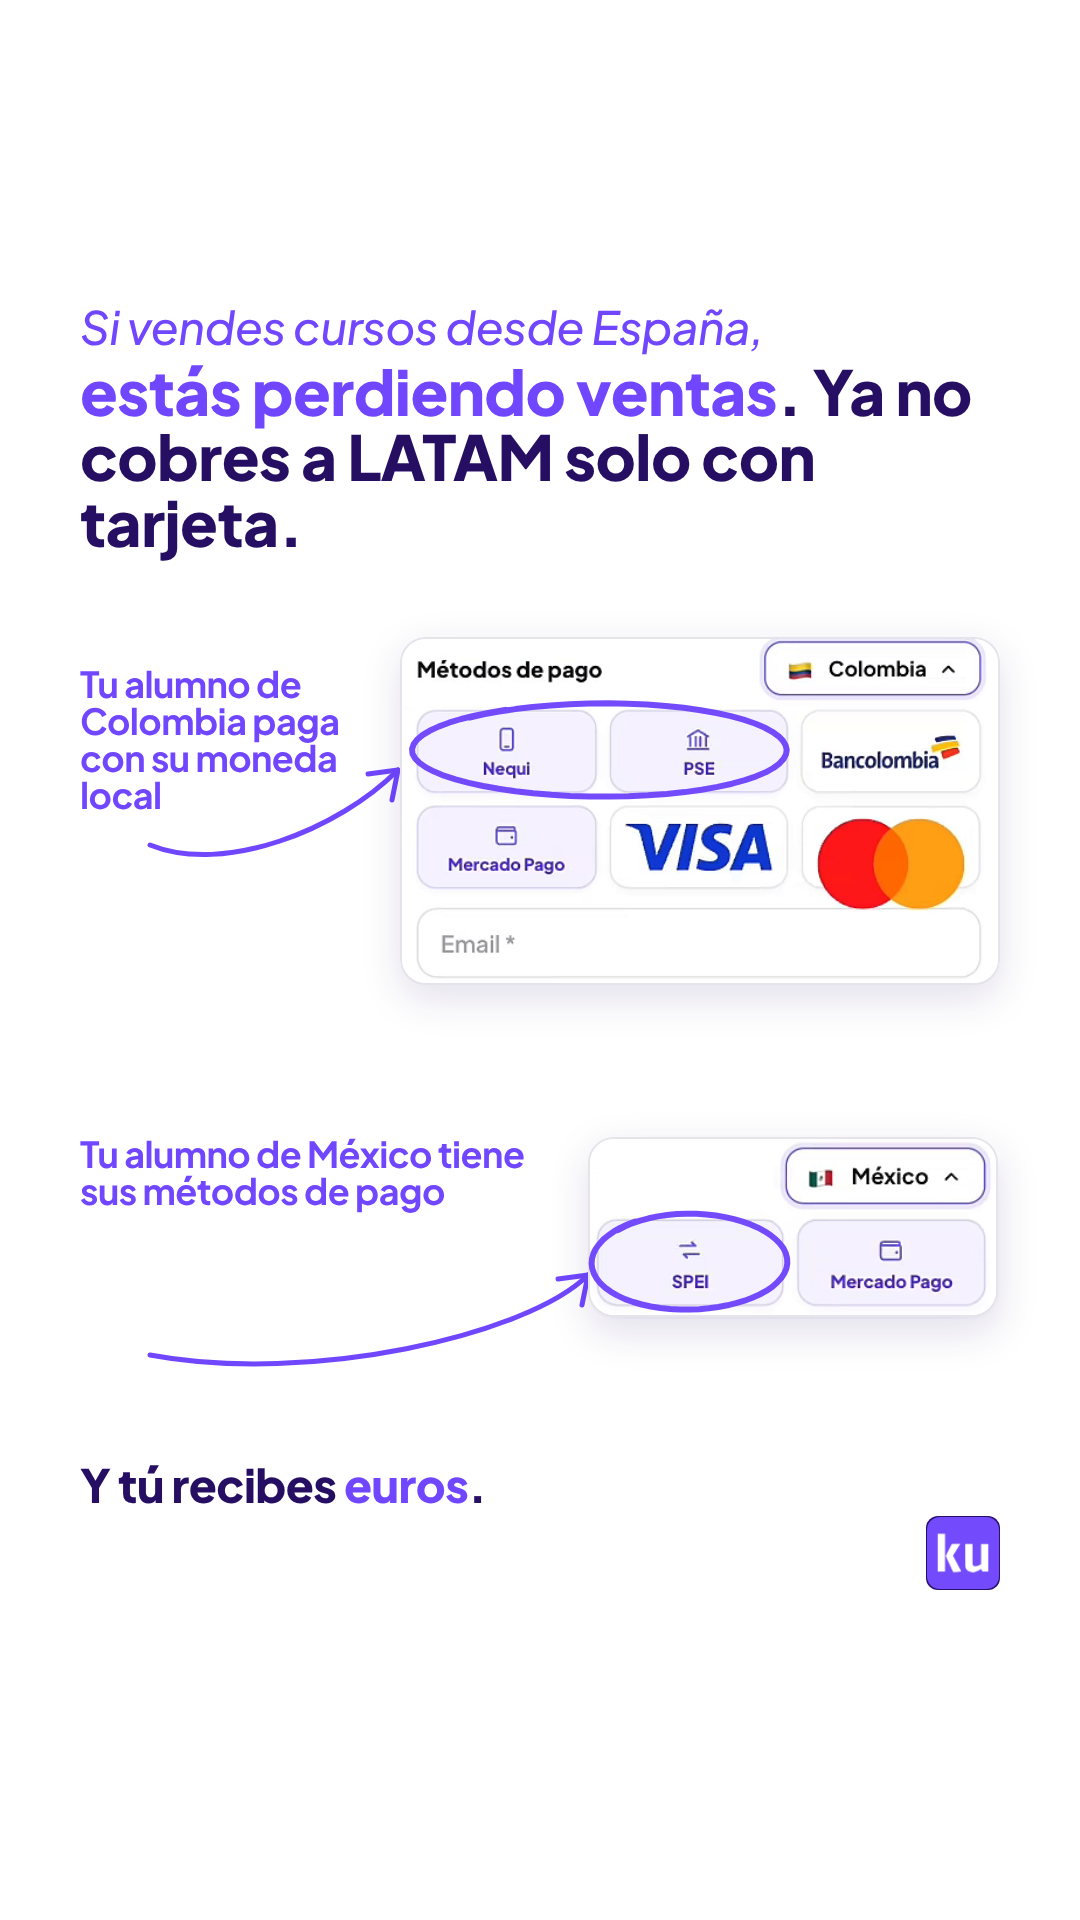
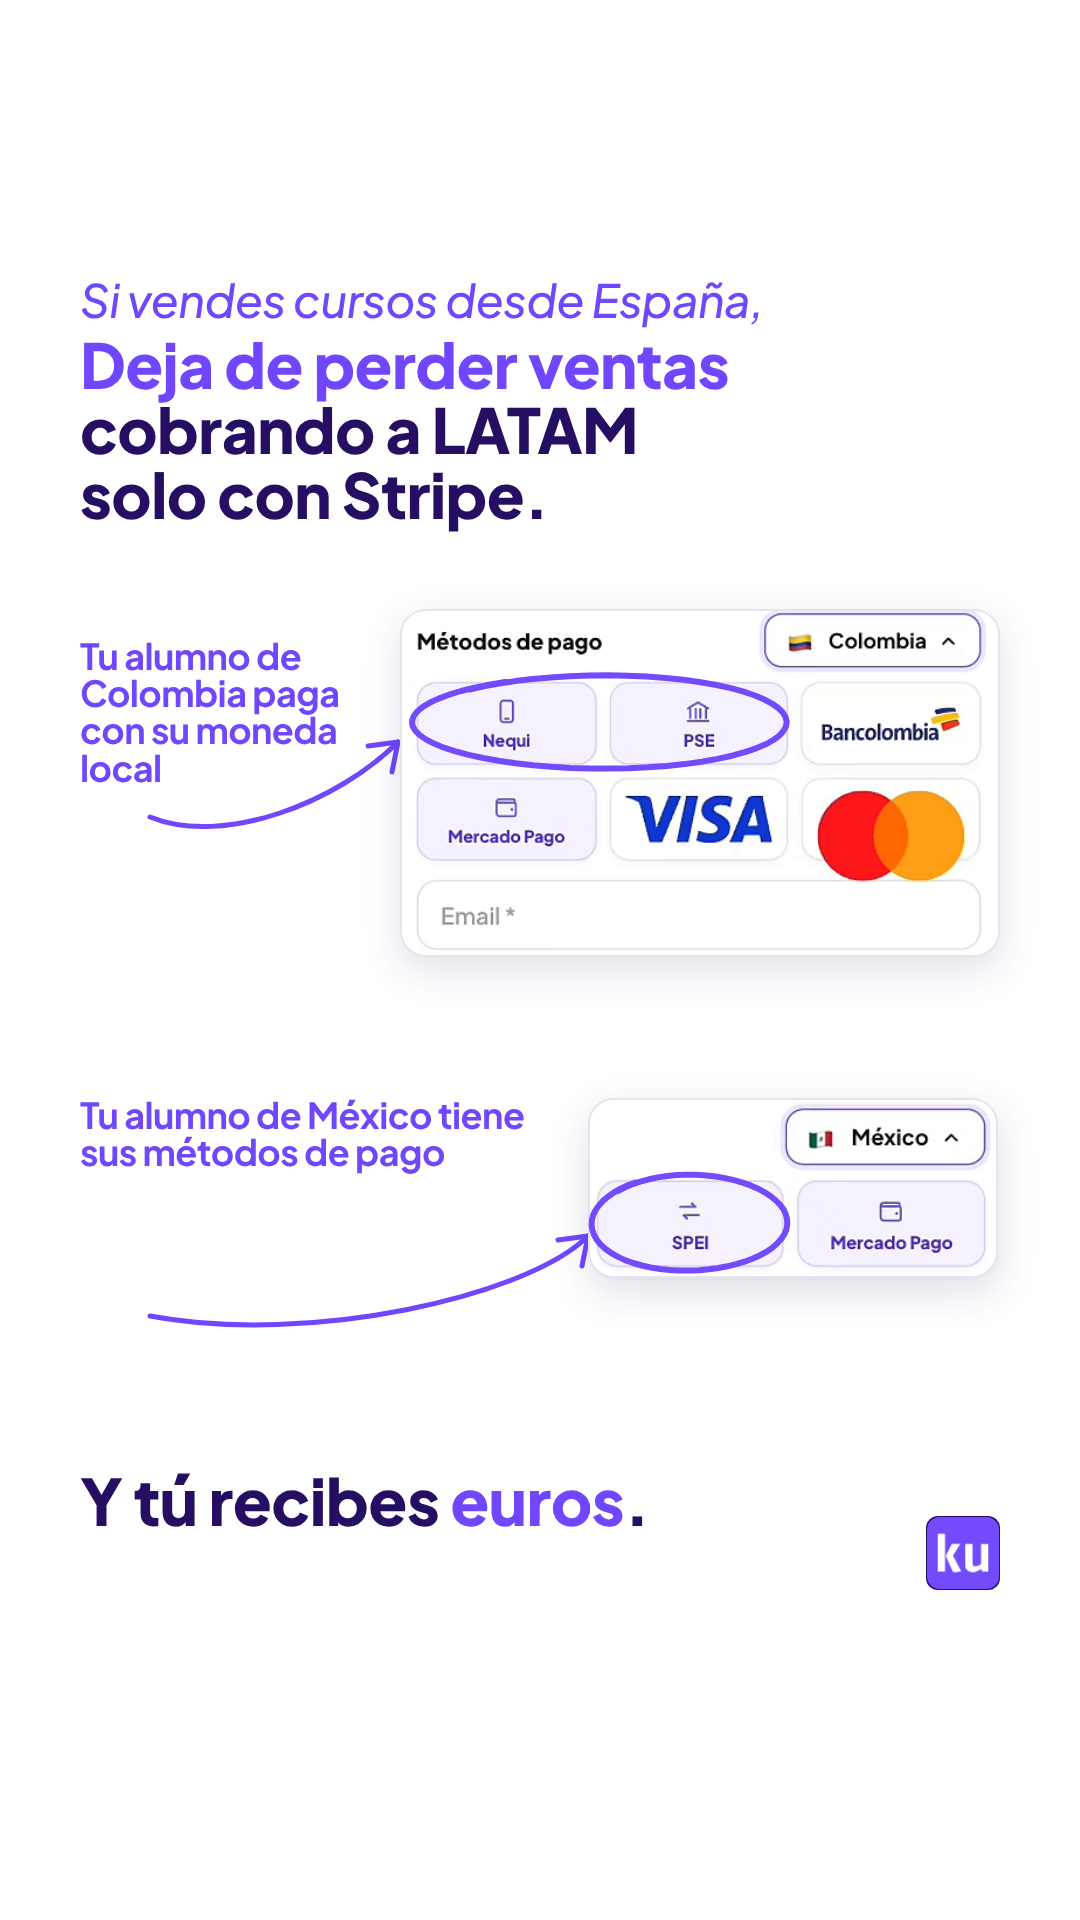
España: E2 y E3 con «deja de perder ventas cobrando solo con Stripe» y «Y tú recibes euros» más grande
Claude-Session: https://claude.ai/code/session_01CrG1buW4YQaBwXCV6dNp28

diff --git a/creatividades/metodos-de-pago/espana/_fuente/estaticos_es.py b/creatividades/metodos-de-pago/espana/_fuente/estaticos_es.py
@@ -64,7 +64,7 @@ def e2(h):
              ("Enlaces que mandas", "x", "Uno para cada caso", "Uno"),
              ("Lo que recibes", "g", "Euros", "Euros")]
     css = """.kick{font-size:68px;line-height:1.08}
-h1{font-size:80px;line-height:1.02;font-weight:800;margin:8px 0 40px}
+h1{font-size:72px;line-height:1.04;font-weight:800;margin:8px 0 44px}
 .tb{display:grid;grid-template-columns:240px 1fr 1fr;gap:14px}
 .th{border-radius:22px;color:#fff;font-weight:700;font-size:34px;display:flex;align-items:center;justify-content:center;text-align:center;height:120px;letter-spacing:-0.01em}
 .lab{font-weight:700;font-size:33px;line-height:1.1;display:flex;align-items:center;letter-spacing:-0.02em}
@@ -82,8 +82,8 @@ h1{font-size:80px;line-height:1.02;font-weight:800;margin:8px 0 40px}
         f'<div class="lab">{l}</div><div class="c {t}"><span class="i">{ico[t]}</span>{hoy}</div>'
         f'<div class="c k"><span class="i">✓</span>{ku}</div>' for l, t, hoy, ku in filas)
     body = f"""<div class="safe"><div class="kick">Si vendes cursos<br>desde España,</div>
-<h1>esto pierdes cobrando<br><span class="m">solo con tarjeta</span>.</h1>
-<div class="tb"><div></div><div class="th" style="background:#b3261e">Hoy, solo con tarjeta</div>
+<h1><span class="m">deja de perder ventas</span><br>cobrando solo con Stripe.</h1>
+<div class="tb"><div></div><div class="th" style="background:#b3261e">Hoy, con Stripe</div>
 <div class="th" style="background:{NAVY}">Con Kunfupay</div>{celdas}</div>
 <div class="cierre">Vendes lo mismo. Cobras a más alumnos.</div></div>"""
     return pagina(h, body, css)
@@ -101,9 +101,9 @@ h1{font-size:62px;line-height:1.05;font-weight:800;margin:4px 0 0}
 .fila{position:relative;height:%dpx;margin-top:%dpx}
 .nota{position:absolute;left:0;top:30px;font-weight:700;color:#7047ff;font-size:36px;line-height:1.03}
 .card{position:absolute;right:0;top:0;border-radius:24px;box-shadow:0 14px 40px rgba(38,15,99,.13)}
-.fin{font-size:46px;font-weight:800;margin-top:%dpx}""" % ((380, 54, 40) if h == 1350 else (420, 80, 90))
+.fin{font-size:64px;font-weight:800;margin-top:%dpx}""" % ((380, 54, 70) if h == 1350 else (420, 80, 140))
     body = f"""<div class="safe"><div class="kick">Si vendes cursos desde España,</div>
-<h1><span class="m">estás perdiendo ventas</span>. Ya no cobres a LATAM solo con tarjeta.</h1>
+<h1><span class="m">Deja de perder ventas</span><br>cobrando a LATAM<br>solo con Stripe.</h1>
 <div class="fila">{flecha(320, 230, 318, 135)}<div class="nota" style="width:270px">Tu alumno de Colombia paga con su moneda local</div>
 <img class="card" src="{A}colombia.png" style="width:600px"></div>
 <div class="fila" style="height:230px">{flecha(510, 240, 508, 140)}<div class="nota" style="width:480px;top:0">Tu alumno de México tiene sus métodos de pago</div>

diff --git a/creatividades/metodos-de-pago/espana/_fuente/copys_es.py b/creatividades/metodos-de-pago/espana/_fuente/copys_es.py
@@ -24,7 +24,7 @@ CUERPO = (
     "No es que no quiera tu curso. Es que su tarjeta no pasa, no tiene tarjeta internacional "
     "o en su país se paga de otra forma.\n"
     "Te dice «mañana lo intento». Y mañana ya no está.\n\n"
-    "Cuando cobras a LATAM solo con tarjeta, hasta un 27 % de las ventas se cae justo en el "
+    "Cuando cobras a LATAM solo con Stripe, hasta un 27 % de las ventas se cae justo en el "
     "pago. Y casi nunca te enteras, porque no te dicen «no pude pagar»: simplemente "
     "desaparecen.\n\n"
     "Con Kunfupay cambia una sola cosa: cómo te pagan.\n"
@@ -48,21 +48,20 @@ PIEZAS = [
                 "Haz clic y descubre cómo."),
          titulos=["Stripe te hace perder hasta un 27 %", "Tu alumno de LATAM sí quiere pagarte"]),
     dict(pieza='ES-E2', nombre='Comparativa',
-         gancho=("Si vendes cursos desde España, esto es lo que pierdes cobrando solo con "
-                 "tarjeta."),
-         corto=("Si vendes cursos desde España y solo cobras con tarjeta, pierdes hasta un "
+         gancho=("Si vendes cursos desde España, deja de perder ventas cobrando solo con Stripe."),
+         corto=("Si vendes cursos desde España y solo cobras con Stripe, pierdes hasta un "
                 "27 % de tus ventas.\n\n"
                 "No es que no quieran comprarte.\n"
                 "Es que no pueden pagarte.\n\n"
                 "PERO con tu enlace de Kunfupay pagan todos.\n"
                 "Un enlace. Euros para ti.\n\n"
                 "Haz clic y descubre cómo."),
-         titulos=["Vendes lo mismo, cobras a más alumnos", "Hoy con tarjeta vs. con Kunfupay"]),
+         titulos=["Deja de perder ventas con Stripe", "Hoy con Stripe vs. con Kunfupay"]),
     dict(pieza='ES-E3', nombre='Así te paga cada alumno (páginas reales)',
-         gancho=("Si vendes cursos desde España, estás perdiendo ventas. Ya no cobres a LATAM "
-                 "solo con tarjeta."),
-         corto=("Si vendes cursos desde España, estás perdiendo ventas. Ya no cobres a LATAM solo "
-                "con tarjeta.\n\n"
+         gancho=("Si vendes cursos desde España, deja de perder ventas cobrando a LATAM solo con "
+                 "Stripe."),
+         corto=("Si vendes cursos desde España, deja de perder ventas cobrando a LATAM solo con "
+                "Stripe.\n\n"
                 "Mandas un solo enlace de Kunfupay.\n"
                 "Cada alumno lo abre y paga con lo que usa en su país.\n"
                 "Y tú recibes euros.\n\n"

diff --git a/creatividades/metodos-de-pago/espana/COPYS-ESTATICOS-ESPANA.md b/creatividades/metodos-de-pago/espana/COPYS-ESTATICOS-ESPANA.md
@@ -7,7 +7,7 @@ Conjunto: METODOS DE PAGO / ESP. Cada pieza lleva 2 textos (muy largo y corto) y
 **Título 1:** Stripe te hace perder hasta un 27 %  
 **Título 2:** Tu alumno de LATAM sí quiere pagarte
 
-**Texto largo** (1449 caracteres)
+**Texto largo** (1448 caracteres)
 
 ```text
 Si vendes cursos desde España y cobras con Stripe, estás perdiendo hasta un 27 % de tu facturación.
@@ -19,7 +19,7 @@ Le mandas tu enlace de pago… y ahí se queda.
 No es que no quiera tu curso. Es que su tarjeta no pasa, no tiene tarjeta internacional o en su país se paga de otra forma.
 Te dice «mañana lo intento». Y mañana ya no está.
 
-Cuando cobras a LATAM solo con tarjeta, hasta un 27 % de las ventas se cae justo en el pago. Y casi nunca te enteras, porque no te dicen «no pude pagar»: simplemente desaparecen.
+Cuando cobras a LATAM solo con Stripe, hasta un 27 % de las ventas se cae justo en el pago. Y casi nunca te enteras, porque no te dicen «no pude pagar»: simplemente desaparecen.
 
 Con Kunfupay cambia una sola cosa: cómo te pagan.
 Creas tu enlace de pago y lo mandas como siempre.
@@ -58,13 +58,13 @@ Haz clic y descubre cómo.
 
 ## ES-E2 · Comparativa
 
-**Título 1:** Vendes lo mismo, cobras a más alumnos  
-**Título 2:** Hoy con tarjeta vs. con Kunfupay
+**Título 1:** Deja de perder ventas con Stripe  
+**Título 2:** Hoy con Stripe vs. con Kunfupay
 
-**Texto largo** (1430 caracteres)
+**Texto largo** (1427 caracteres)
 
 ```text
-Si vendes cursos desde España, esto es lo que pierdes cobrando solo con tarjeta.
+Si vendes cursos desde España, deja de perder ventas cobrando solo con Stripe.
 
 Te cuento algo que seguro te ha pasado.
 
@@ -73,7 +73,7 @@ Le mandas tu enlace de pago… y ahí se queda.
 No es que no quiera tu curso. Es que su tarjeta no pasa, no tiene tarjeta internacional o en su país se paga de otra forma.
 Te dice «mañana lo intento». Y mañana ya no está.
 
-Cuando cobras a LATAM solo con tarjeta, hasta un 27 % de las ventas se cae justo en el pago. Y casi nunca te enteras, porque no te dicen «no pude pagar»: simplemente desaparecen.
+Cuando cobras a LATAM solo con Stripe, hasta un 27 % de las ventas se cae justo en el pago. Y casi nunca te enteras, porque no te dicen «no pude pagar»: simplemente desaparecen.
 
 Con Kunfupay cambia una sola cosa: cómo te pagan.
 Creas tu enlace de pago y lo mandas como siempre.
@@ -96,10 +96,10 @@ Entra y mira si tu negocio encaja.
 Kunfupay es una empresa de tecnología financiera, no un banco. Las cuentas y tarjetas las prestan partners financieros con licencia.
 ```
 
-**Texto corto** (250 caracteres)
+**Texto corto** (249 caracteres)
 
 ```text
-Si vendes cursos desde España y solo cobras con tarjeta, pierdes hasta un 27 % de tus ventas.
+Si vendes cursos desde España y solo cobras con Stripe, pierdes hasta un 27 % de tus ventas.
 
 No es que no quieran comprarte.
 Es que no pueden pagarte.
@@ -115,10 +115,10 @@ Haz clic y descubre cómo.
 **Título 1:** Así te paga cada alumno  
 **Título 2:** Esto ve tu alumno de LATAM al pagarte
 
-**Texto largo** (1443 caracteres)
+**Texto largo** (1435 caracteres)
 
 ```text
-Si vendes cursos desde España, estás perdiendo ventas. Ya no cobres a LATAM solo con tarjeta.
+Si vendes cursos desde España, deja de perder ventas cobrando a LATAM solo con Stripe.
 
 Te cuento algo que seguro te ha pasado.
 
@@ -127,7 +127,7 @@ Le mandas tu enlace de pago… y ahí se queda.
 No es que no quiera tu curso. Es que su tarjeta no pasa, no tiene tarjeta internacional o en su país se paga de otra forma.
 Te dice «mañana lo intento». Y mañana ya no está.
 
-Cuando cobras a LATAM solo con tarjeta, hasta un 27 % de las ventas se cae justo en el pago. Y casi nunca te enteras, porque no te dicen «no pude pagar»: simplemente desaparecen.
+Cuando cobras a LATAM solo con Stripe, hasta un 27 % de las ventas se cae justo en el pago. Y casi nunca te enteras, porque no te dicen «no pude pagar»: simplemente desaparecen.
 
 Con Kunfupay cambia una sola cosa: cómo te pagan.
 Creas tu enlace de pago y lo mandas como siempre.
@@ -150,10 +150,10 @@ Entra y mira si tu negocio encaja.
 Kunfupay es una empresa de tecnología financiera, no un banco. Las cuentas y tarjetas las prestan partners financieros con licencia.
 ```
 
-**Texto corto** (230 caracteres)
+**Texto corto** (223 caracteres)
 
 ```text
-Si vendes cursos desde España, estás perdiendo ventas. Ya no cobres a LATAM solo con tarjeta.
+Si vendes cursos desde España, deja de perder ventas cobrando a LATAM solo con Stripe.
 
 Mandas un solo enlace de Kunfupay.
 Cada alumno lo abre y paga con lo que usa en su país.
@@ -167,7 +167,7 @@ Haz clic y descubre cómo.
 **Título 1:** Hasta un 30 % más, sin vender más  
 **Título 2:** Cambia cómo cobras, no lo que vendes
 
-**Texto largo** (1460 caracteres)
+**Texto largo** (1459 caracteres)
 
 ```text
 Si vendes cursos desde España, podrías facturar hasta un 30 % más. Sin vender más. Solo cambiando cómo cobras.
@@ -179,7 +179,7 @@ Le mandas tu enlace de pago… y ahí se queda.
 No es que no quiera tu curso. Es que su tarjeta no pasa, no tiene tarjeta internacional o en su país se paga de otra forma.
 Te dice «mañana lo intento». Y mañana ya no está.
 
-Cuando cobras a LATAM solo con tarjeta, hasta un 27 % de las ventas se cae justo en el pago. Y casi nunca te enteras, porque no te dicen «no pude pagar»: simplemente desaparecen.
+Cuando cobras a LATAM solo con Stripe, hasta un 27 % de las ventas se cae justo en el pago. Y casi nunca te enteras, porque no te dicen «no pude pagar»: simplemente desaparecen.
 
 Con Kunfupay cambia una sola cosa: cómo te pagan.
 Creas tu enlace de pago y lo mandas como siempre.
@@ -222,7 +222,7 @@ Haz clic y descubre cómo.
 **Título 1:** Un 27 % más de conversión  
 **Título 2:** No venden más: cobran mejor
 
-**Texto largo** (1431 caracteres)
+**Texto largo** (1430 caracteres)
 
 ```text
 Creadores en España ya aumentan su conversión un 27 % solo cambiando cómo cobran.
@@ -234,7 +234,7 @@ Le mandas tu enlace de pago… y ahí se queda.
 No es que no quiera tu curso. Es que su tarjeta no pasa, no tiene tarjeta internacional o en su país se paga de otra forma.
 Te dice «mañana lo intento». Y mañana ya no está.
 
-Cuando cobras a LATAM solo con tarjeta, hasta un 27 % de las ventas se cae justo en el pago. Y casi nunca te enteras, porque no te dicen «no pude pagar»: simplemente desaparecen.
+Cuando cobras a LATAM solo con Stripe, hasta un 27 % de las ventas se cae justo en el pago. Y casi nunca te enteras, porque no te dicen «no pude pagar»: simplemente desaparecen.
 
 Con Kunfupay cambia una sola cosa: cómo te pagan.
 Creas tu enlace de pago y lo mandas como siempre.
